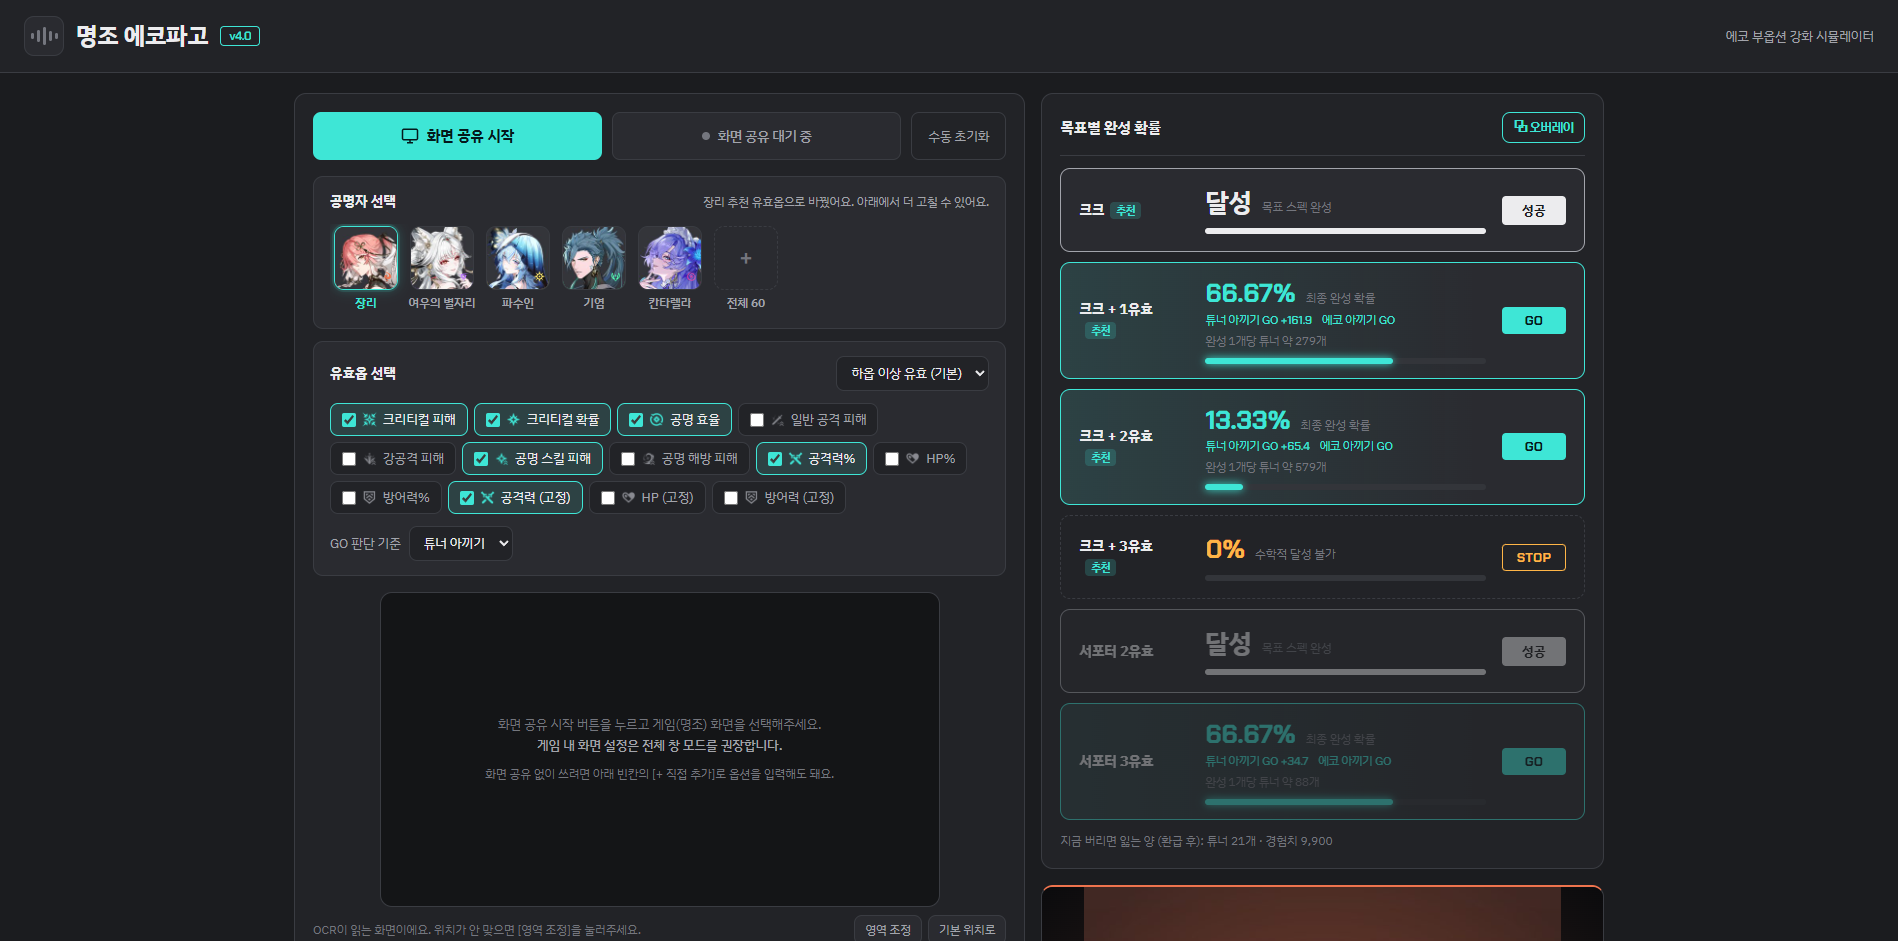
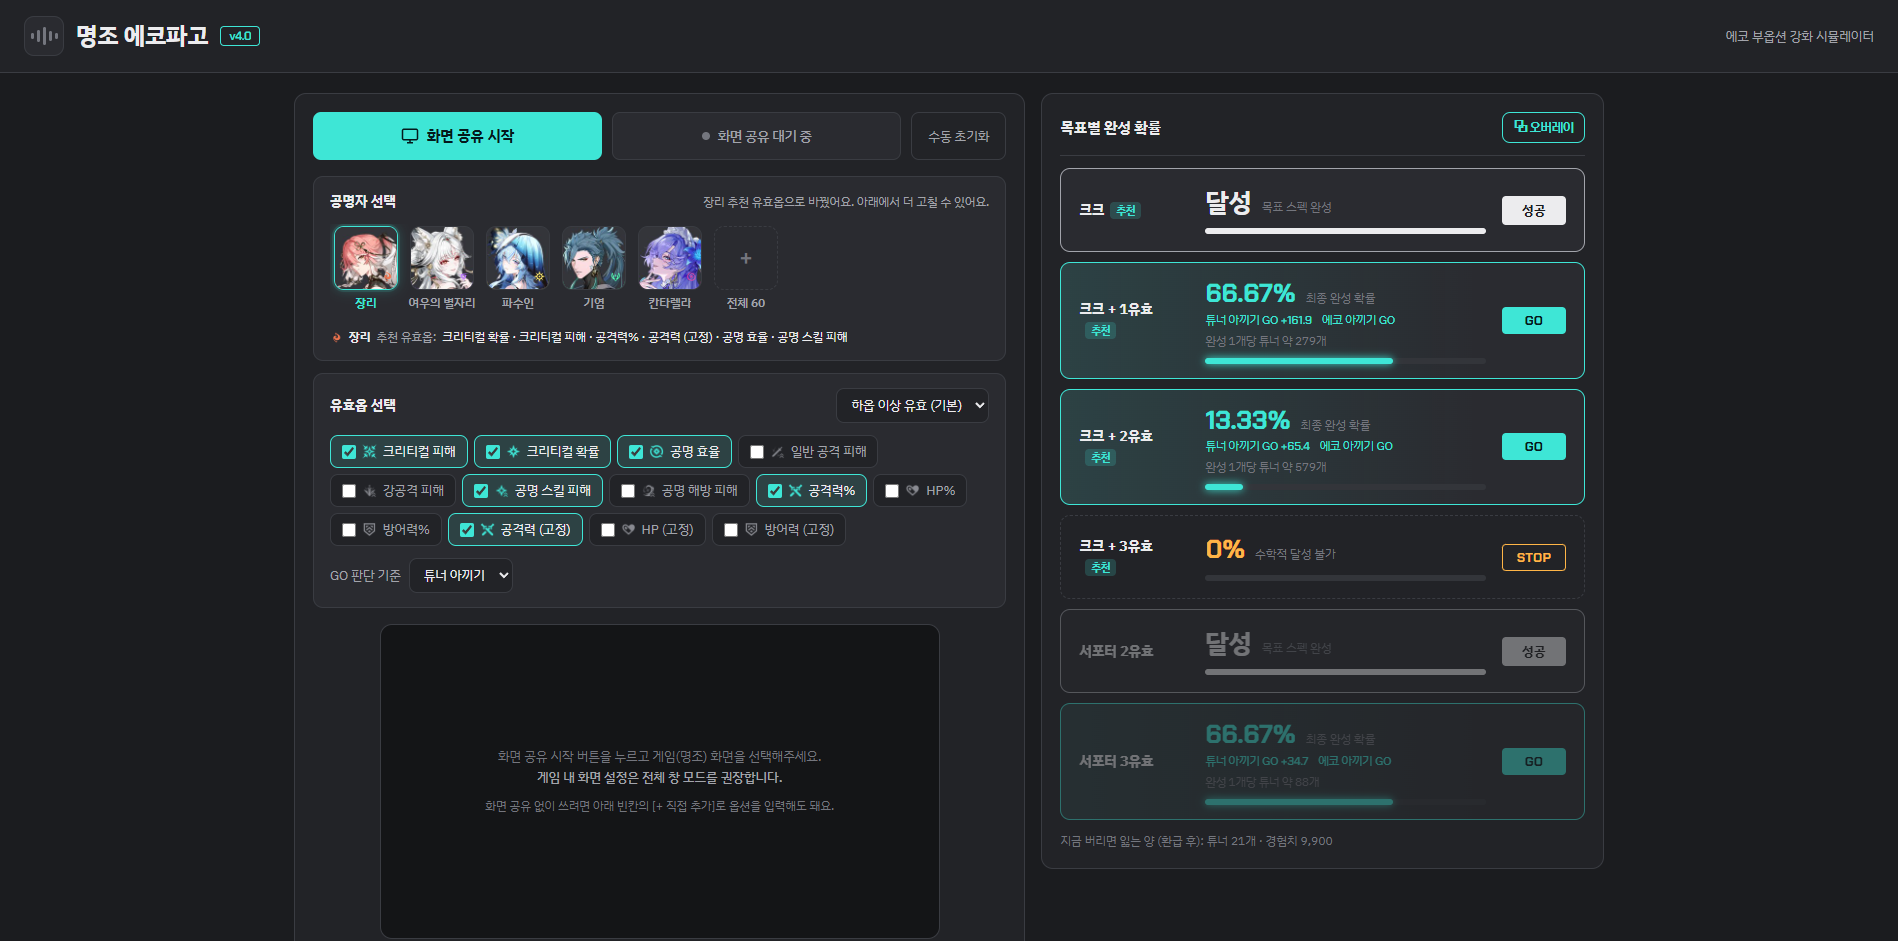
오른쪽 아래 공명자 일러스트 카드 제거, 추천 유효옵은 얼굴 줄 아래로
- UI가 복잡해서 일러스트 카드 삭제 (img/roles/big 이미지는 나중을 위해 남김)
- 고른 공명자의 추천 유효옵을 공명자 선택 칸 안에 한 줄로 표시
- README 설명·스크린샷 갱신

diff --git a/roles.js b/roles.js
@@ -93,7 +93,6 @@ export const ROLES = [
 const findRole = (id) => ROLES.find((r) => r.id === id) || null;
 const targetsOf = (role) => PRESETS[role.id] ?? FALLBACK_TARGETS;
 
-const bigUrl = (role) => `./img/roles/big/${role.id}.jpg`;    // 오른쪽 일러스트 카드용 (속성 색 배경이 들어가 있어서 방랑자도 속성마다 따로)
 const faceUrl = (role) => `./img/roles/face/${role.img ?? role.id}.jpg`;  // 얼굴 타일용 (게임 얼굴 아이콘)
 
 const $ = (id) => document.getElementById(id);
@@ -105,7 +104,7 @@ const modal = $('roleModal');
 const modalGrid = $('roleModalGrid');
 const modalTabs = $('roleModalTabs');
 const searchInput = $('roleSearch');
-const showcase = $('roleShowcase');
+const roleTargets = $('roleTargets');
 
 let currentId = null;
 let applying = false;   // 우리가 체크박스를 바꾸는 중에는 "직접 수정" 표시를 하지 않는다
@@ -124,16 +123,13 @@ function pushRecent(id) {
   store.set(RECENT_KEY, JSON.stringify(list));
 }
 
-// ───────── 오른쪽 일러스트 카드 ─────────
-function showShowcase(role) {
-  showcase.hidden = !role;
+// ───────── 추천 유효옵 줄 (얼굴 줄 바로 아래) ─────────
+function showTargets(role) {
+  roleTargets.hidden = !role;
   if (!role) return;
-  showcase.style.setProperty('--el', elementColor(role.elements[0]));
-  $('roleShowcaseImg').src = bigUrl(role);
-  $('roleShowcaseName').textContent = role.name;
-  $('roleShowcaseEl').innerHTML = role.elements.map((e) => `${elementIcon(e)}${e}`).join(' ');
   const names = targetsOf(role).map((k) => STAT_DATABASE[k]?.name ?? k);
-  $('roleShowcaseTargets').textContent = `추천 유효옵${PRESETS[role.id] ? '' : '(기본값)'}: ${names.join(' · ')}`;
+  roleTargets.innerHTML = `${elementIcons(role)}<strong>${role.name}</strong> 추천 유효옵${PRESETS[role.id] ? '' : '(기본값)'}: <span>${names.join(' · ')}</span>`;
+  roleTargets.style.setProperty('--el', elementColor(role.elements[0]));
 }
 
 function setNote(text) { roleNote.textContent = text; }
@@ -263,7 +259,7 @@ function selectRole(id) {
   currentId = role ? role.id : null;
   store.set(ROLE_KEY, currentId);
   if (role) pushRecent(role.id);
-  showShowcase(role);
+  showTargets(role);
   setGoalFocus(role);
   renderStrip();
   if (role) {
@@ -276,12 +272,12 @@ function selectRole(id) {
 }
 
 function init() {
-  if (!section || !strip || !filterContainer || !modal || !showcase) return;
+  if (!section || !strip || !filterContainer || !modal || !roleTargets) return;
 
   // 새로고침했을 때는 화면만 복원한다 (유효옵은 app.js가 저장해 둔 값을 그대로 쓴다)
   const saved = findRole(store.get(ROLE_KEY));
   currentId = saved ? saved.id : null;
-  showShowcase(saved);
+  showTargets(saved);
   setGoalFocus(saved);
   if (saved) notifyApp();   // app.js는 roles.js보다 먼저 계산하므로, 강조 상태를 오버레이에도 알려준다
   renderStrip();

diff --git a/style.css b/style.css
@@ -370,16 +370,7 @@ body.modal-lock { overflow: hidden; }
 .role-group-grid { display: grid; grid-template-columns: repeat(auto-fill, 68px); gap: 12px 10px; }
 .role-empty { padding: 40px 0; color: var(--dim); text-align: center; }
 
-/* 오른쪽 일러스트 카드: 그림 전체가 보이게 넣고, 정보는 그림 아래에 둔다 */
-.role-showcase { --el: var(--dim); display: flex; flex-direction: column; overflow: hidden; border-radius: 12px; border: 1px solid var(--line); border-top: 2px solid var(--el); background: var(--panel); }
-.role-showcase[hidden] { display: none; }
-.role-showcase img { display: block; width: 100%; aspect-ratio: 696 / 960; max-height: 70vh; object-fit: contain;
   background: radial-gradient(90% 60% at 50% 35%, color-mix(in srgb, var(--el) 22%, #111215), #0b0b0d 80%); }
-.role-showcase-info { display: flex; flex-direction: column; gap: 6px; padding: 12px 16px 14px; border-top: 1px solid var(--line); }
-.role-showcase-info strong { font-size: 20px; font-weight: 700; }
-.role-showcase-el { align-self: flex-start; display: inline-flex; align-items: center; gap: 5px; color: var(--el); font-size: 12px; font-weight: 700; }
-.role-showcase-el .el-icon { width: 15px; height: 15px; }
-.role-showcase-targets { color: var(--muted); font-size: 12px; }
 @media (max-width: 600px) { .role-note { display: none; } }
 
 
@@ -410,3 +401,10 @@ body.modal-lock { overflow: hidden; }
 .ov-decision .is-go { color: var(--cyan); }
 .ov-decision .is-stop { color: var(--amber); }
 .ov-decision i { font-style: normal; color: var(--dim); }
+
+/* 고른 공명자의 추천 유효옵 (얼굴 줄 아래) */
+.role-targets { display: flex; flex-wrap: wrap; align-items: center; gap: 4px 6px; padding-top: 2px; color: var(--muted); font-size: 12px; }
+.role-targets[hidden] { display: none; }
+.role-targets strong { color: var(--text); }
+.role-targets span { color: var(--text); }
+.role-targets .el-icon { width: 13px; height: 13px; }

diff --git a/index.html b/index.html
@@ -43,6 +43,7 @@
           <span class="role-note" id="roleNote"></span>
         </div>
         <div class="role-strip" id="roleStrip"></div>
+        <div class="role-targets" id="roleTargets" hidden></div>
       </div>
 
       <div class="filter-section">
@@ -107,16 +108,6 @@
         </div>
         <div id="dashboardList"></div>
         <div class="cost-note" id="costNote"></div>
-      </div>
-
-      <!-- 공명자 선택: 고른 캐릭터 일러스트 -->
-      <div class="role-showcase" id="roleShowcase" hidden>
-        <img id="roleShowcaseImg" alt="">
-        <div class="role-showcase-info">
-          <span class="role-showcase-el" id="roleShowcaseEl"></span>
-          <strong id="roleShowcaseName"></strong>
-          <span class="role-showcase-targets" id="roleShowcaseTargets"></span>
-        </div>
       </div>
     </div>
   </div>

diff --git a/README.md b/README.md
@@ -22,7 +22,7 @@
 - **GO / STOP 판정** (v4.0): 두 가지 기준으로 같이 계산해요.
   - **튜너 아끼기** (기본): 지금 버리고 새 에코로 가는 것과 계속 강화하는 것 중, 완성 1개당 드는 튜너가 더 적은 쪽을 골라요.
   - **에코 아끼기**: 목표 완성이 불가능해질 때만 STOP이에요.
-- **공명자 선택** (v4.0): 캐릭터를 고르면 그 캐릭터의 유효옵이 자동으로 체크되고, 딜러는 크크 목표, 서포터는 서포터 목표를 추천해요. 60명(방랑자는 속성별), 검색·속성 필터 지원.
+- **공명자 선택** (v4.0): 캐릭터를 고르면 그 캐릭터의 유효옵이 자동으로 체크되고(추천 유효옵은 얼굴 줄 아래에 표시), 딜러는 크크 목표, 서포터는 서포터 목표를 추천해요. 60명(방랑자는 속성별), 검색·속성 필터 지원.
 - **유효옵·수치 컷 설정**: 캐릭터에 맞게 유효옵을 고르고, 하옵/중옵/상옵 이상만 유효로 칠 수도 있어요.
 - **오버레이 창** (v3.0): 게임 위에 항상 떠 있는 작은 창에서 부옵션과 확률을 보고, 공유·초기화·직접 추가까지 할 수 있어요.
 - **직접 입력**: 화면 공유가 안 되는 모바일에서도 빈칸을 눌러 옵션을 입력하면 똑같이 계산해요.
@@ -93,7 +93,7 @@
 | `data.js` | 부옵션 종류·수치표·목표 정의 |
 | `overlay.js` | 오버레이 창 (Document Picture-in-Picture) |
 | `roles.js` · `presets.js` | 공명자 선택, 공명자별 유효옵 |
-| `img/roles/` · `icons/elements/` | 공명자 얼굴 · 일러스트, 속성 아이콘 |
+| `img/roles/` · `icons/elements/` | 공명자 얼굴 아이콘, 속성 아이콘 |
 | `config.js` | 공통 설정값 |
 
 빌드 과정 없이 순수 HTML·CSS·JS(ES 모듈)로 되어 있어요. 로컬에서는 아무 정적 서버로 열면 돼요.
